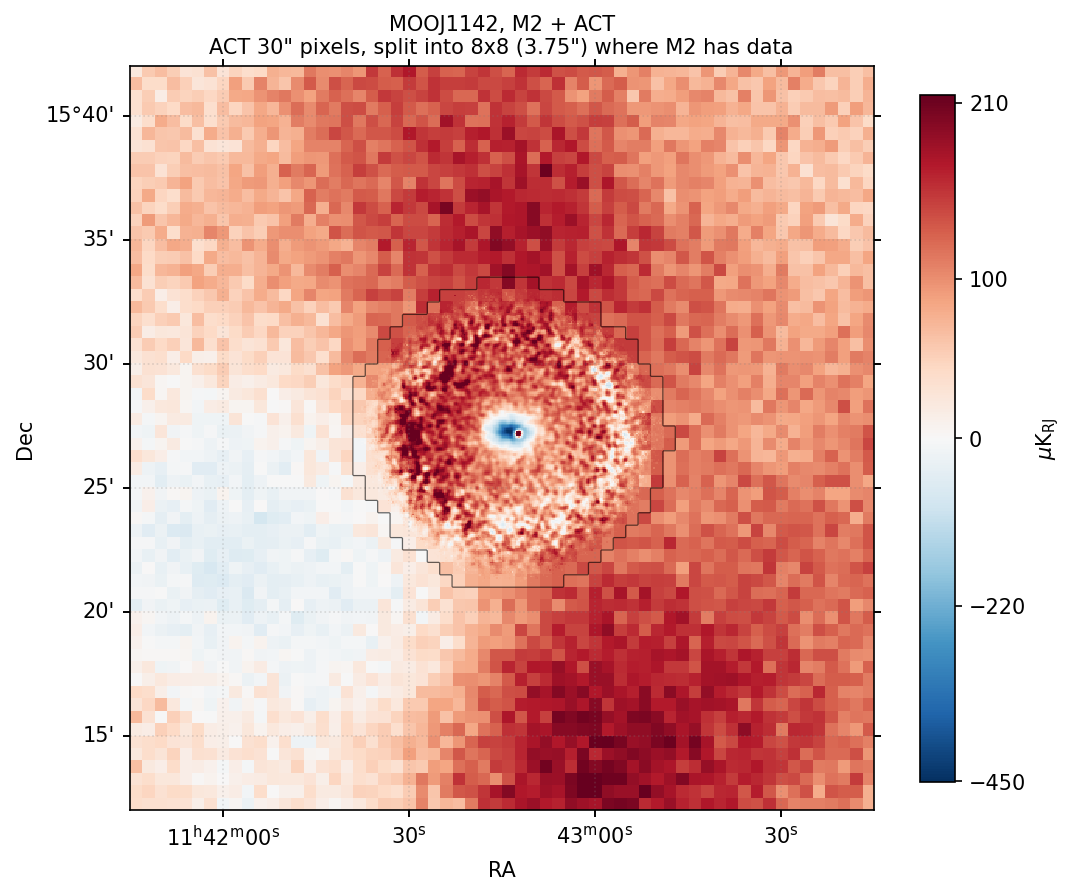
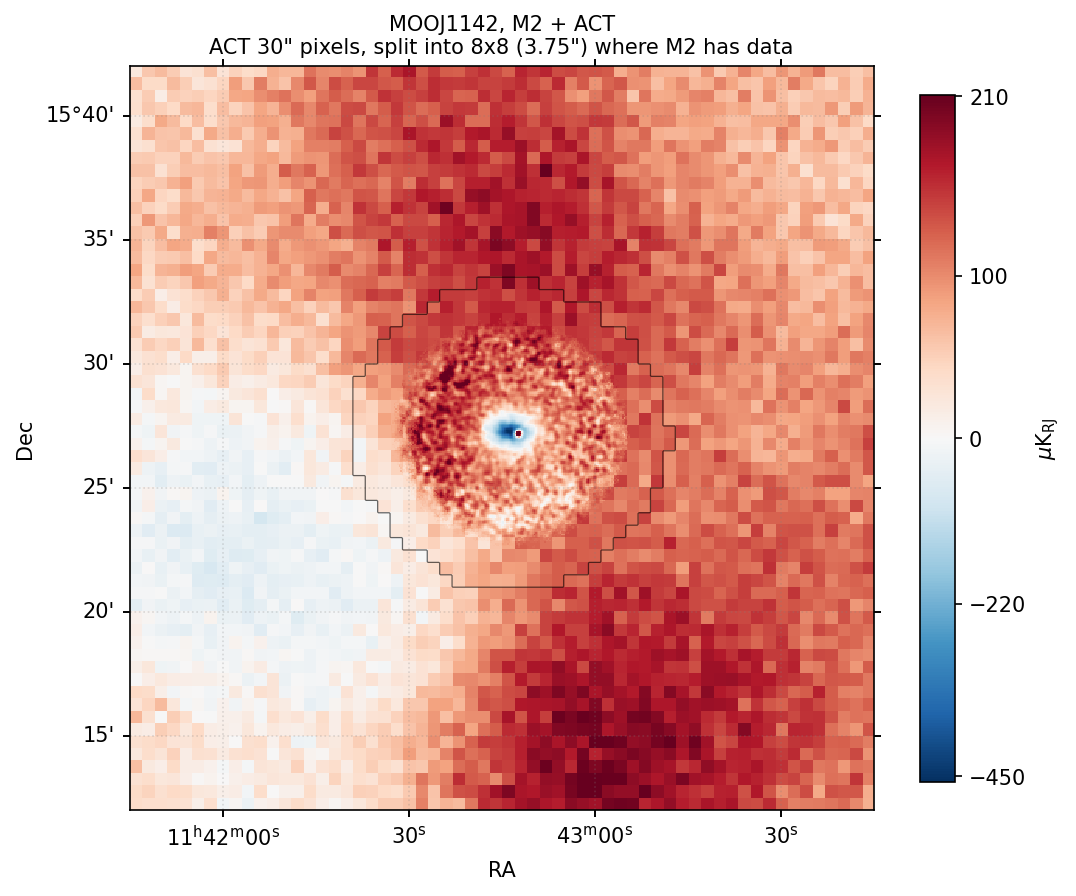
feat: --show-hits display threshold for the multiscale maps; summary page section 8 (no mask, best map) and note on low-hit speckle

diff --git a/reports/convergence_summary.html b/reports/convergence_summary.html
@@ -86,7 +86,7 @@ a:focus-visible { outline: 2px solid var(--accent); outline-offset: 2px; }
   <p class="meta">Branch <code>needlet</code>. Companion pages: <a href="https://claude.ai/artifact/83yLdSf6RiKEEh5Z6yDwkU">how the needlet mapmaker works</a> and the <a href="https://claude.ai/artifact/8XxEaS5g2cTvvs8tgzTGRt">detailed investigation log</a>. Code changes are listed against the starting commit <code>3c435a3</code> in <code>reports/code_changes.md</code>.</p>
   <nav class="toc" aria-label="Sections">
     <a href="#goal">1. The problem</a><a href="#causes">2. Causes examined</a><a href="#ruled-out">3. Ruled out</a>
-    <a href="#found">4. Found along the way</a><a href="#transfer">5. Transfer functions</a><a href="#sim">6. Simulation</a><a href="#now">7. Current picture</a>
+    <a href="#found">4. Found along the way</a><a href="#transfer">5. Transfer functions</a><a href="#sim">6. Simulation</a><a href="#now">7. Current picture</a><a href="#best">8. Best map</a>
   </nav>
 </header>
 
@@ -95,7 +95,7 @@ a:focus-visible { outline: 2px solid var(--accent); outline-offset: 2px; }
 <p class="lede">With M2 alone, conjugate gradient (CG) converges to machine precision. With ACT in the operator, the residual stops falling at a few times 10<sup>−4</sup>, and the largest scales of the map keep moving for hundreds of iterations.</p>
 <p>The goal is a combined map that has settled inside the M2 footprint, especially on scales of a few arcminutes and larger. Outside the footprint we use the ACT map as it is, so convergence there does not matter. The underlying science problem is the one that started this work. M2 alone loses the large scales (the "bowl"), and in the earlier ACT + M2 attempts the ACT beam caused trouble at the M2 map edge.</p>
 <div class="callout">
-<p><strong>In short:</strong> the residual floor comes from a handful of poorly determined modes. They live in a ring at the edge of the footprint, on scales where M2 and ACT hand over to each other (needlet bands 1–2, a few arcminutes). The simulation shows that the full-length solves start to fit noise in these modes. The in-footprint map is best at about iteration 40–200, and continuing to iterate makes the largest scales worse, mostly near the edge. An outside-footprint prior stops that drift.</p>
+<p><strong>In short:</strong> the residual floor comes from a handful of poorly determined modes. They live in a ring at the edge of the footprint, on scales where M2 and ACT hand over to each other (needlet bands 1–2, a few arcminutes). The simulation shows that the full-length solves start to fit noise in these modes. The in-footprint map is best at about iteration 40–200, and continuing to iterate makes the largest scales worse, mostly near the edge. An outside-footprint prior stops that drift. <strong>Latest:</strong> removing the M2 hits mask removes most of the drift with no prior at all (section 8).</p>
 </div>
 </section>
 
@@ -327,5 +327,49 @@ a:focus-visible { outline: 2px solid var(--accent); outline-offset: 2px; }
 <li>Housekeeping: the response caches do not record their settings, and <code>reports/needlet.html</code> still has pre-fix numbers.</li>
 </ul>
 <p class="meta">Data are under <code>/mnt/welch/USERS/jorlo/needlets/</code>: <code>lat40/</code> holds the 40-TOD real-data runs, <code>sim/</code> the simulation runs and <code>summary.txt</code>, <code>overlap/</code> the transfer measurements, and <code>ritz/</code> the small-problem spectra. Figures come from <code>examples/summary_figs.py</code>, <code>examples/plot_residual_curves.py</code> and <code>examples/transfer_overlap.py</code>.</p>
+</section>
+
+<section id="best">
+<h2>8. Best map so far: no hits mask</h2>
+<div class="prose">
+<p>By default <code>twores_ex.py</code> masks pixels with fewer than 20 hits: the M2 model is zero there and the binned data are zeroed. The TOD samples that land on those pixels are still in the data, though, with sky in them that the model cannot explain. The noise model treats that sky as noise, and the SVD noise model correlates samples across detectors and time, so it carries the unexplained signal into the pixels just inside the footprint edge. Running with <code>--min-hits 0</code> removes the cut, so every sample is modelled and low-hit pixels are simply noisy. Same simulation and 40 TODs as section 6, judged in the same hits ≥ 20 footprint:</p>
+</div>
+<div class="tablewrap">
+<table>
+<thead><tr><th>Interior error / truth</th><th>Band 0</th><th>Band 1</th><th>Band 2</th><th>Largest scale (32–64 px)</th><th>Its transfer</th><th>Display residual rms, M2 part</th></tr></thead>
+<tbody>
+<tr><td>masked, iteration 600</td><td class="num">0.34</td><td class="num">0.36</td><td class="num">0.49</td><td class="num">0.32</td><td class="num">1.15</td><td class="num">12.3 µK</td></tr>
+<tr><td>masked + outside prior, 600</td><td class="num">0.12</td><td class="num">0.15</td><td class="num">0.24</td><td class="num">0.12</td><td class="num">1.08</td><td class="num">11.0 µK</td></tr>
+<tr><td><strong>no mask, no prior, 40</strong></td><td class="num">0.09</td><td class="num">0.07</td><td class="num">0.18</td><td class="num">0.09</td><td class="num">1.04</td><td class="num">–</td></tr>
+<tr><td><strong>no mask, no prior, 600</strong></td><td class="num">0.16</td><td class="num">0.10</td><td class="num">0.28</td><td class="num">0.10</td><td class="num">0.98</td><td class="num">11.3 µK</td></tr>
+</tbody>
+</table>
+</div>
+<div class="prose">
+<p>Without the mask, the solve matches or beats the prior at the largest scales, with no prior at all, and the edge patches are mostly gone. It still drifts a little in bands 0 and 2 between iterations 40 and 600. Still running: no mask with the prior, the signal-strength prior, and the band-4-only prior.</p>
+<h3>Display maps</h3>
+<p>The figures below are for viewing only. They come from <code>examples/multiscale_map.py</code> (real data) and <code>examples/sim_multiscale.py</code> (simulation):</p>
+<ul>
+<li><strong>Base grid:</strong> 30″ ACT pixels. Each one containing M2 data (hits ≥ 20) is split into 8 × 8 sub-pixels of 3.75″.</li>
+<li><strong>What a sub-pixel shows:</strong> the joint map, smoothed to 10″, where it has at least 120 hits. It is feathered into the ACT value over the next 300 hits. Sub-pixels with fewer than 120 hits show their ACT pixel's value.</li>
+<li><strong>Display only:</strong> the threshold affects only the picture. The solve still uses every sample, which is what removes the edge bias, while the picture no longer shows the noisy low-hit pixels.</li>
+<li><strong>Elsewhere:</strong> unsplit pixels show the ACT map.</li>
+</ul>
+<div class="callout">
+<p><strong>Why low-hit pixels speckle.</strong> On the scales a few sub-pixels across, ACT contributes nothing: those are very high ℓ, where its beam transfer is 0.004 or less in band 4 and about 0 above (Figure 4). So at those scales the joint map is pure M2, and where M2 has few hits it is pure M2 noise. Its rms grows as 1/√hits, and the 10″ smoothing does not remove it. The joint solve is behaving correctly here: there is no information on those scales at those pixels, and the noise shows it. The display threshold (<code>--show-hits</code>) hides those pixels by showing the ACT value instead, which on those scales just means showing nothing. A larger smoothing near the edge would do the same while keeping the large scales of the joint map.</p>
+</div>
+</div>
+<figure>
+<img src="figs/summary/best_sim_multiscale.png" alt="Simulation with no mask: truth, simulated data and residual as two-resolution maps">
+<figcaption><strong>Figure 8. Best configuration on the simulation: no mask, no prior, 600 iterations.</strong> Truth: the simulated sky, and in the ACT pixels the sky as a noiseless ACT sees it (ACT beam, pixel average). Data: the joint map, and in the ACT pixels a simulated ACT map with noise from the real ACT inverse variance. The residual's M2 part is smoothed to 30″. Its rms is 11.3 µK in the M2 part and 17.8 µK in the ACT pixels, which is ACT noise.</figcaption>
+</figure>
+<figure>
+<img src="figs/summary/sim_multiscale.png" alt="Simulation: masked needlet solve and masked solve with the outside prior, truth, data and residual">
+<figcaption><strong>Figure 9. For comparison, the two masked solves</strong> (needlet CG without and with the outside prior), shown the same way. The patches at the footprint edge in the first row's residual are what the mask causes.</figcaption>
+</figure>
+<figure>
+<img src="figs/summary/multiscale.png" alt="Real data: MOOJ1142 M2 plus ACT two-resolution map from the masked solve">
+<figcaption><strong>Figure 10. Real data, 40 TODs, masked solve (600 iterations, K<sub>RJ</sub>).</strong> The ACT map is the coadd of the 8 DR6 f090 splits. This is a placeholder from the earlier masked run. The same map with no mask is queued, first for 40 TODs and then for all TODs, and will replace it here.</figcaption>
+</figure>
 </section>
 </div>

diff --git a/examples/multiscale_map.py b/examples/multiscale_map.py
@@ -168,7 +168,7 @@ def compose(
     Parameters
     ----------
     args : argparse.Namespace
-        Parsed arguments (factor, min_hits, smooth, match, feather_hits).
+        Parsed arguments (factor, min_hits, show_hits, smooth, match, feather_hits).
     act_up : np.ndarray
         ACT map as constant blocks on the fine grid (fine_grid).
     joint : np.ndarray
@@ -188,7 +188,8 @@ def compose(
         True on the sub-pixels showing the joint map.
     """
     f = args.factor
-    m2 = hits >= args.min_hits
+    show = max(args.min_hits, args.show_hits or 0)
+    m2 = hits >= show  # sub-pixels showing the joint map; the others keep the ACT value
     if (
         args.smooth > 0
     ):  # normalised so the smoothing does not pull in the zeros outside the footprint
@@ -196,7 +197,8 @@ def compose(
         joint = gaussian_filter(joint * m2, sig) / np.maximum(
             gaussian_filter(m2.astype(float), sig), 1e-3
         )
-    blocks = m2.reshape(m2.shape[0] // f, f, m2.shape[1] // f, f).any((1, 3))
+    has = hits >= args.min_hits  # ACT pixels with any of these are split
+    blocks = has.reshape(has.shape[0] // f, f, has.shape[1] // f, f).any((1, 3))
     split = np.repeat(np.repeat(blocks, f, 0), f, 1)
     if args.match == "offset":
         off = np.median((joint - act_up)[m2])
@@ -205,7 +207,7 @@ def compose(
         )
         joint = joint - off
     w = (
-        np.clip((hits - args.min_hits) / args.feather_hits, 0, 1)
+        np.clip((hits - show) / args.feather_hits, 0, 1)
         if args.feather_hits > 0
         else 1.0
     )
@@ -381,7 +383,14 @@ if __name__ == "__main__":
         "--min-hits",
         type=float,
         default=20,
-        help="Hits for a sub-pixel to show the joint map",
+        help="Hits for an ACT pixel to be split (and the default of --show-hits)",
+    )
+    parser.add_argument(
+        "--show-hits",
+        type=float,
+        default=None,
+        help="Hits for a sub-pixel to show the joint map (default --min-hits); sub-pixels of split ACT pixels "
+        "with fewer show the ACT value. Display only: the solve can still use every sample",
     )
     parser.add_argument(
         "--smooth",
@@ -393,7 +402,7 @@ if __name__ == "__main__":
         "--feather-hits",
         type=float,
         default=0.0,
-        help="Blend joint into ACT over this many hits above --min-hits (0: no blending)",
+        help="Blend joint into ACT over this many hits above --show-hits (0: no blending)",
     )
     parser.add_argument("--match", choices=["offset", "none"], default="offset")
     parser.add_argument(

diff --git a/examples/sim_multiscale.py b/examples/sim_multiscale.py
@@ -125,16 +125,17 @@ def main(args: argparse.Namespace):
         for j, (img, nm, title) in enumerate(
             (
                 (truth, norm, "truth"),
-                (data, norm, f"simulated data, {label}"),
+                (data, norm, f"simulated data\n{label}"),
                 (
                     res,
                     rnorm,
-                    f"data minus truth, {label}"
+                    "data minus truth"
                     + (
-                        f' (M2 part smoothed to {args.res_smooth:g}")'
+                        f' (M2 part at {args.res_smooth:g}")'
                         if args.res_smooth > 0
                         else ""
-                    ),
+                    )
+                    + f"\n{label}",
                 ),
             )
         ):
@@ -181,7 +182,15 @@ if __name__ == "__main__":
     parser.add_argument("--freq", type=float, default=90e9)
     parser.add_argument("--size", type=float, default=30.0, help="arcmin")
     parser.add_argument("--factor", type=int, default=8)
-    parser.add_argument("--min-hits", type=float, default=20)
+    parser.add_argument(
+        "--min-hits", type=float, default=20, help="Hits for an ACT pixel to be split"
+    )
+    parser.add_argument(
+        "--show-hits",
+        type=float,
+        default=None,
+        help="Hits for a sub-pixel to show the joint map",
+    )
     parser.add_argument("--smooth", type=float, default=10.0, help="arcsec")
     parser.add_argument("--feather-hits", type=float, default=200.0)
     parser.add_argument(
